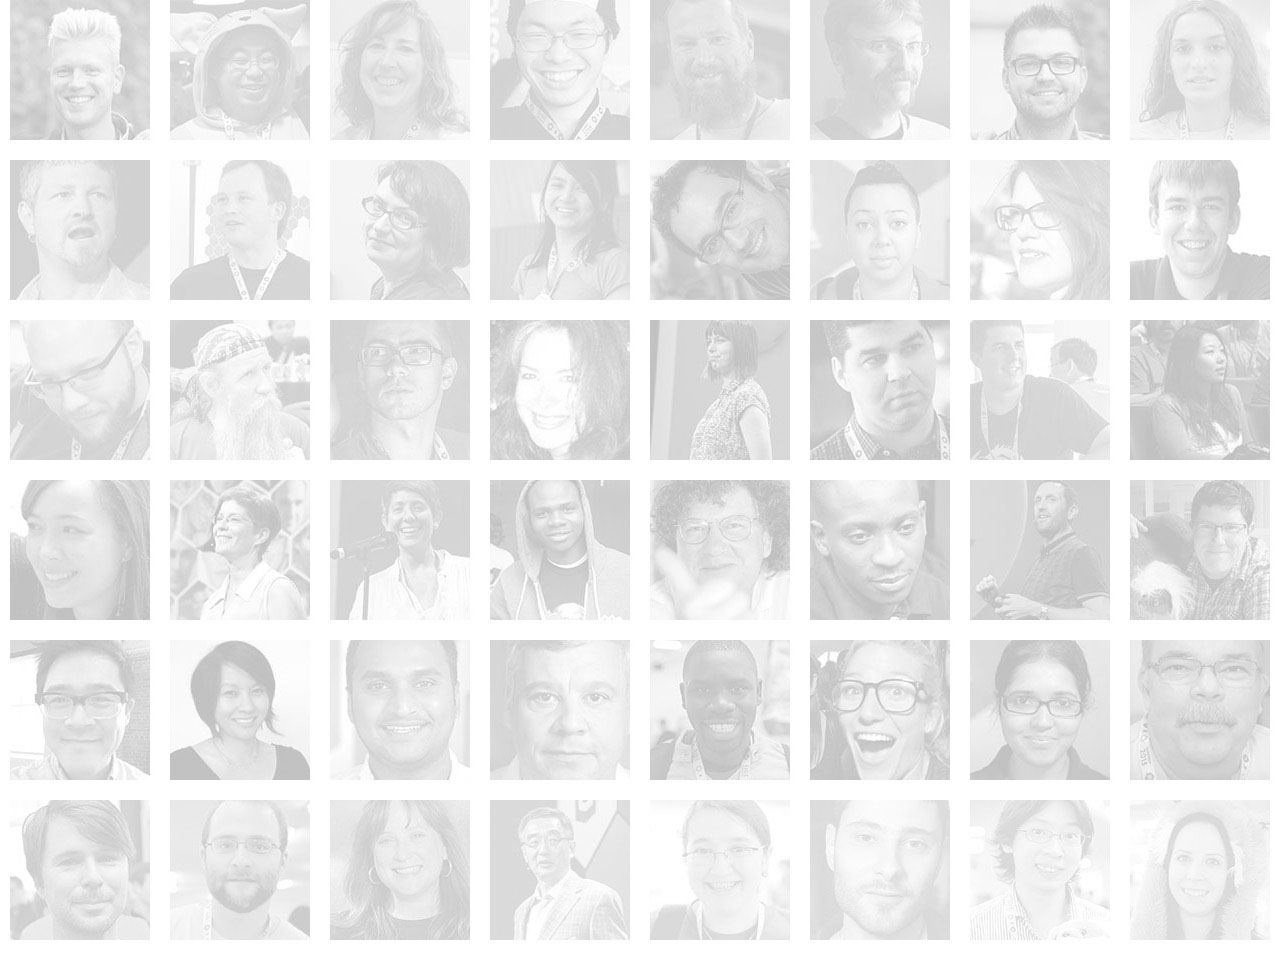
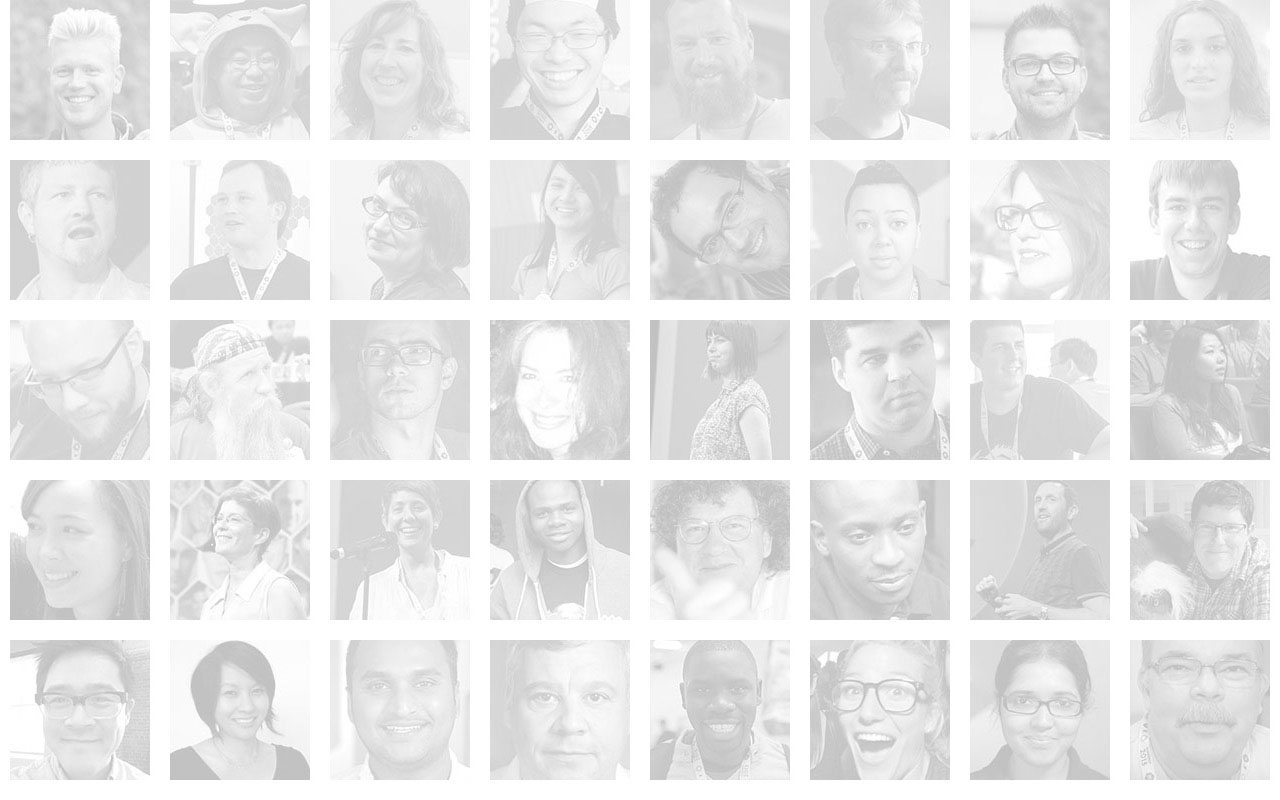
Resize background mozaic

diff --git a/media/css/mozorg/home/home-promo.less b/media/css/mozorg/home/home-promo.less
@@ -39,7 +39,7 @@
     width: @widthSquareGrid_8 - (@gridGutterWidth * 2);
     overflow: hidden;
     z-index: -1;
-    background: none;
+    background: #fff;
 }
 
 .promo-grid {
@@ -57,7 +57,7 @@
         color: #fff;
         overflow: hidden;
         opacity: 1;
-        .transition(opacity .5s ease-in-out);
+        .transition(opacity .3s ease-in-out);
     }
 
     #promo-1 {
@@ -1451,7 +1451,7 @@
 // Promo faces background grid should not be loaded at smallest viewport size
 @media only screen and (min-width: (@widthSquareGrid_3)) {
     .faces-grid-inner {
-        background: url(/media/img/home/voices/mosaic-background.jpg?17-09-2014) -10px 0 repeat;
+        background: #fff url(/media/img/home/voices/mosaic-background.jpg?03-10-2014) -10px 0 repeat;
     }
 }
 

diff --git a/media/css/mozorg/home/home-ie8.less b/media/css/mozorg/home/home-ie8.less
@@ -22,7 +22,7 @@
     width: @widthSquareGrid_6;
     left: 0;
     margin-left: @baseLine;
-    background: url(/media/img/home/voices/mosaic-background.jpg?17-09-2014) -10px 0 repeat;
+    background: url(/media/img/home/voices/mosaic-background.jpg?03-10-2014) -10px 0 repeat;
 }
 
 .promo-large-landscape,
